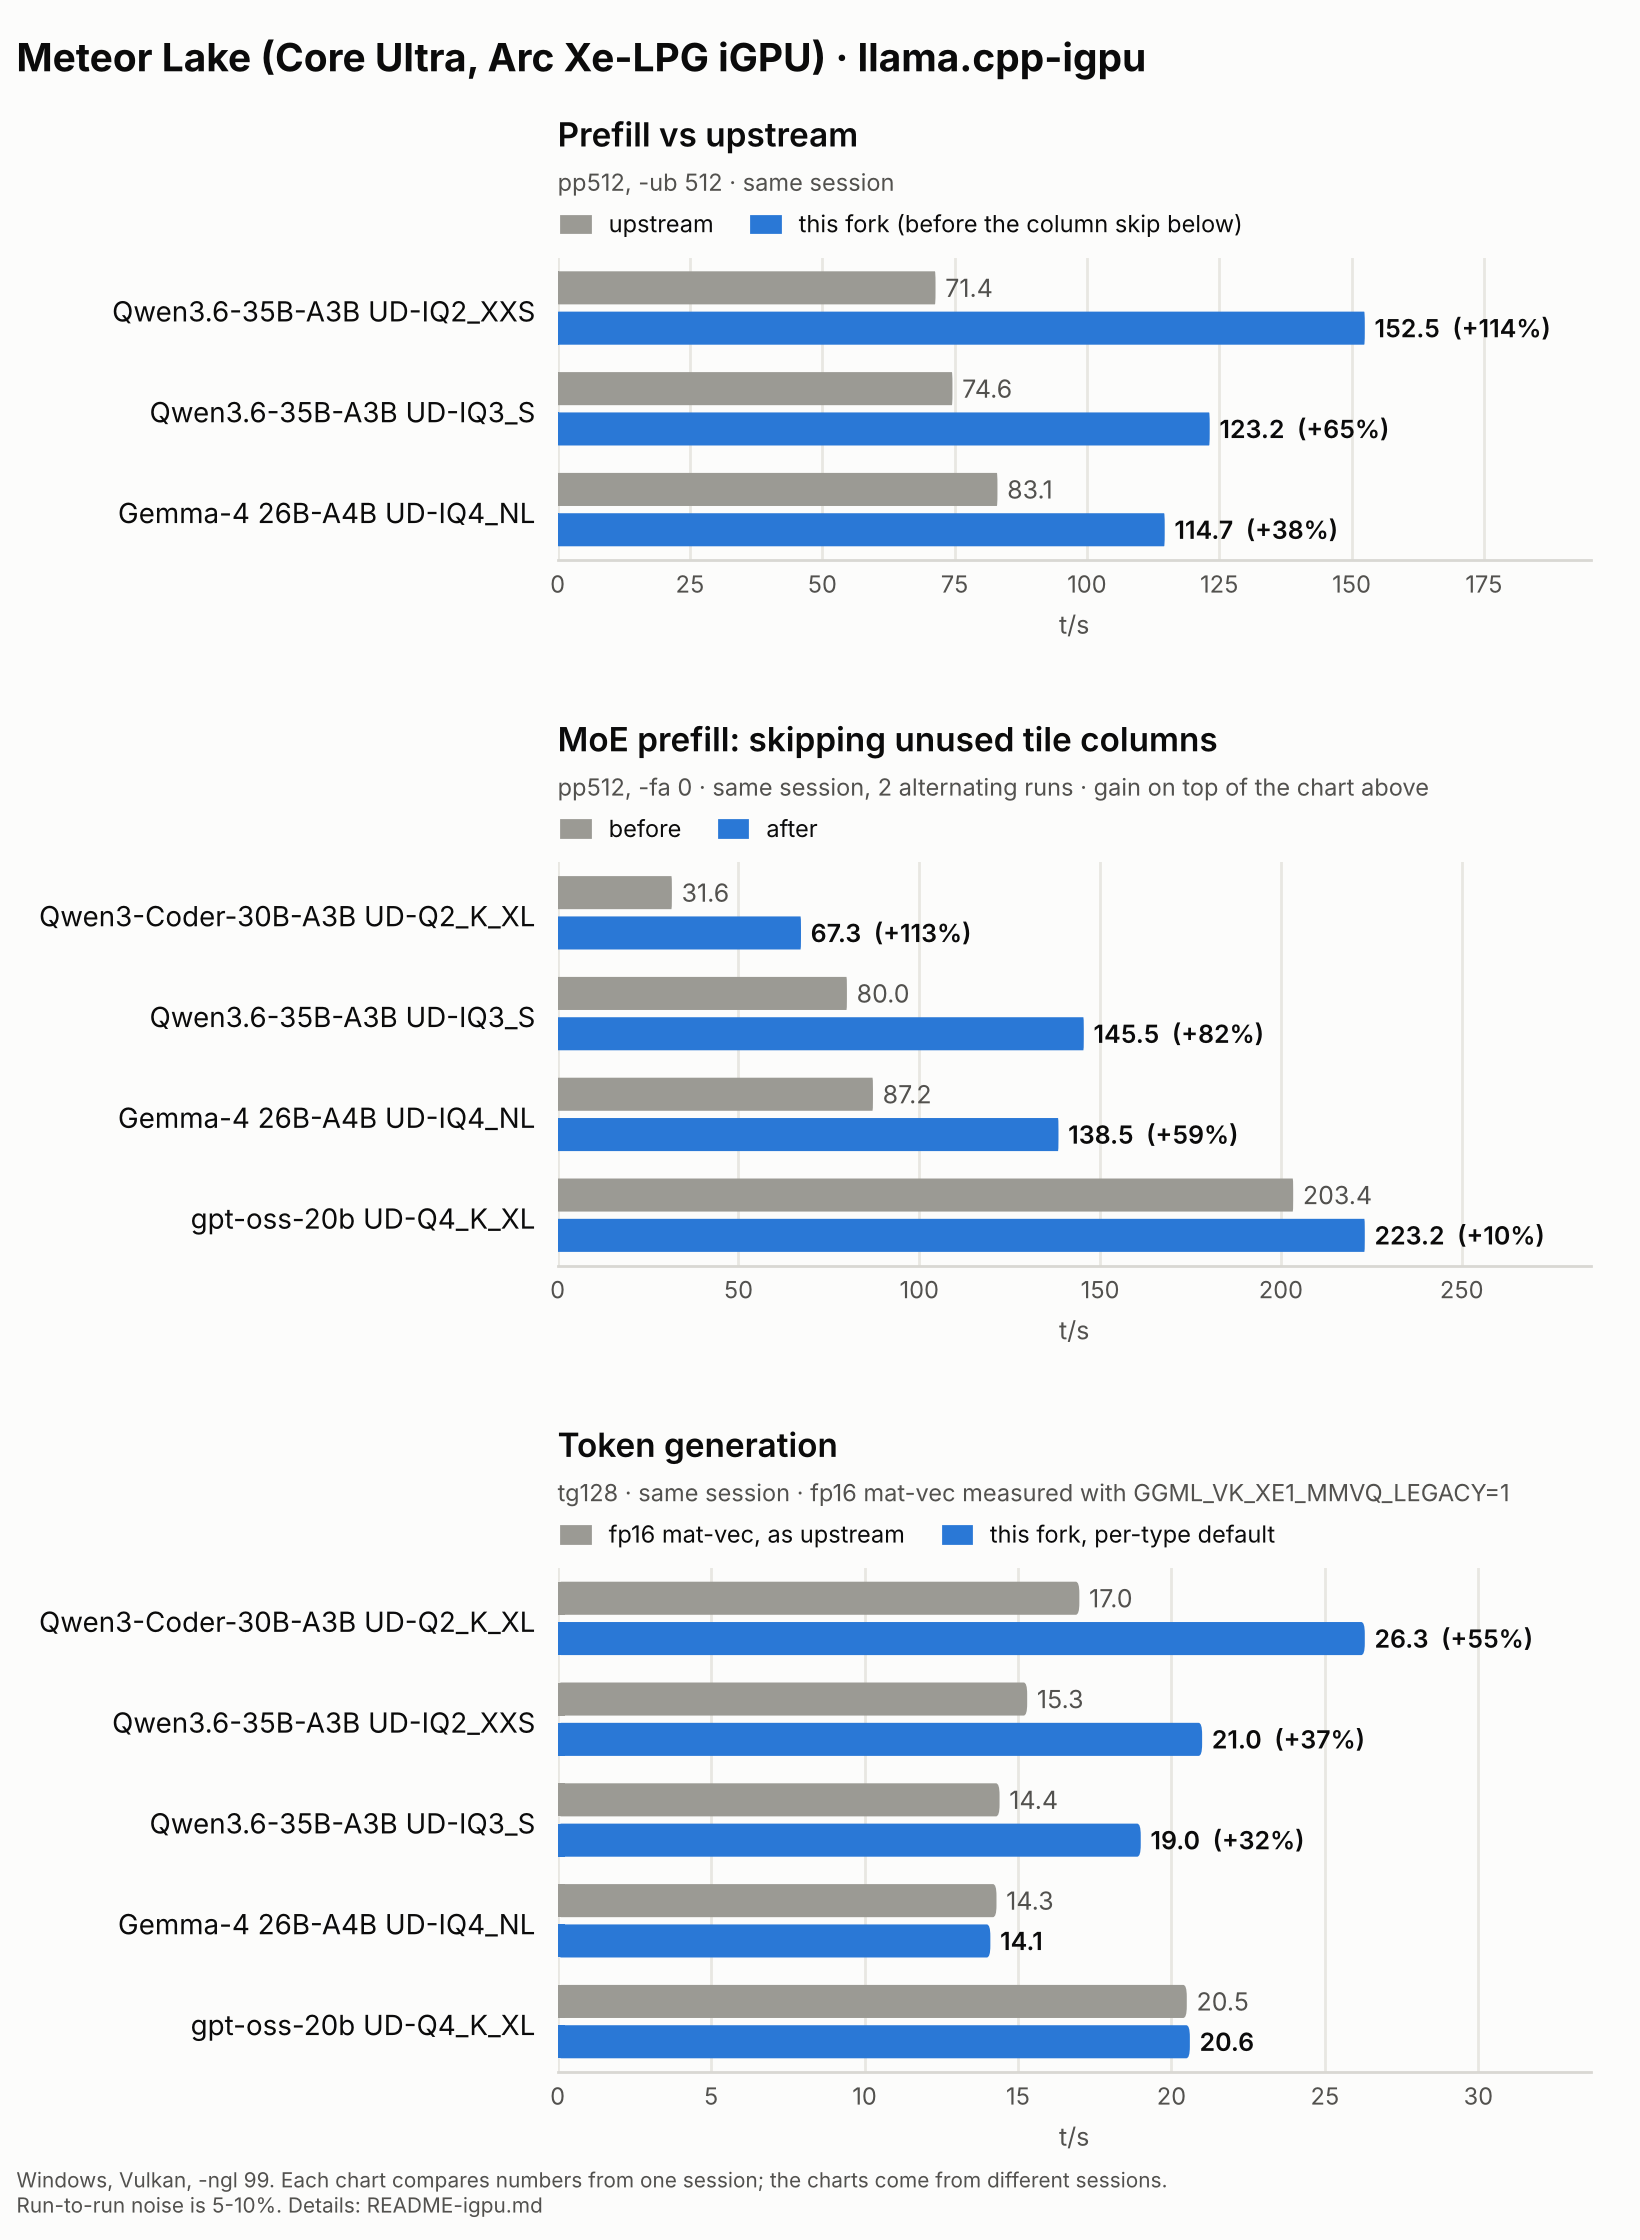
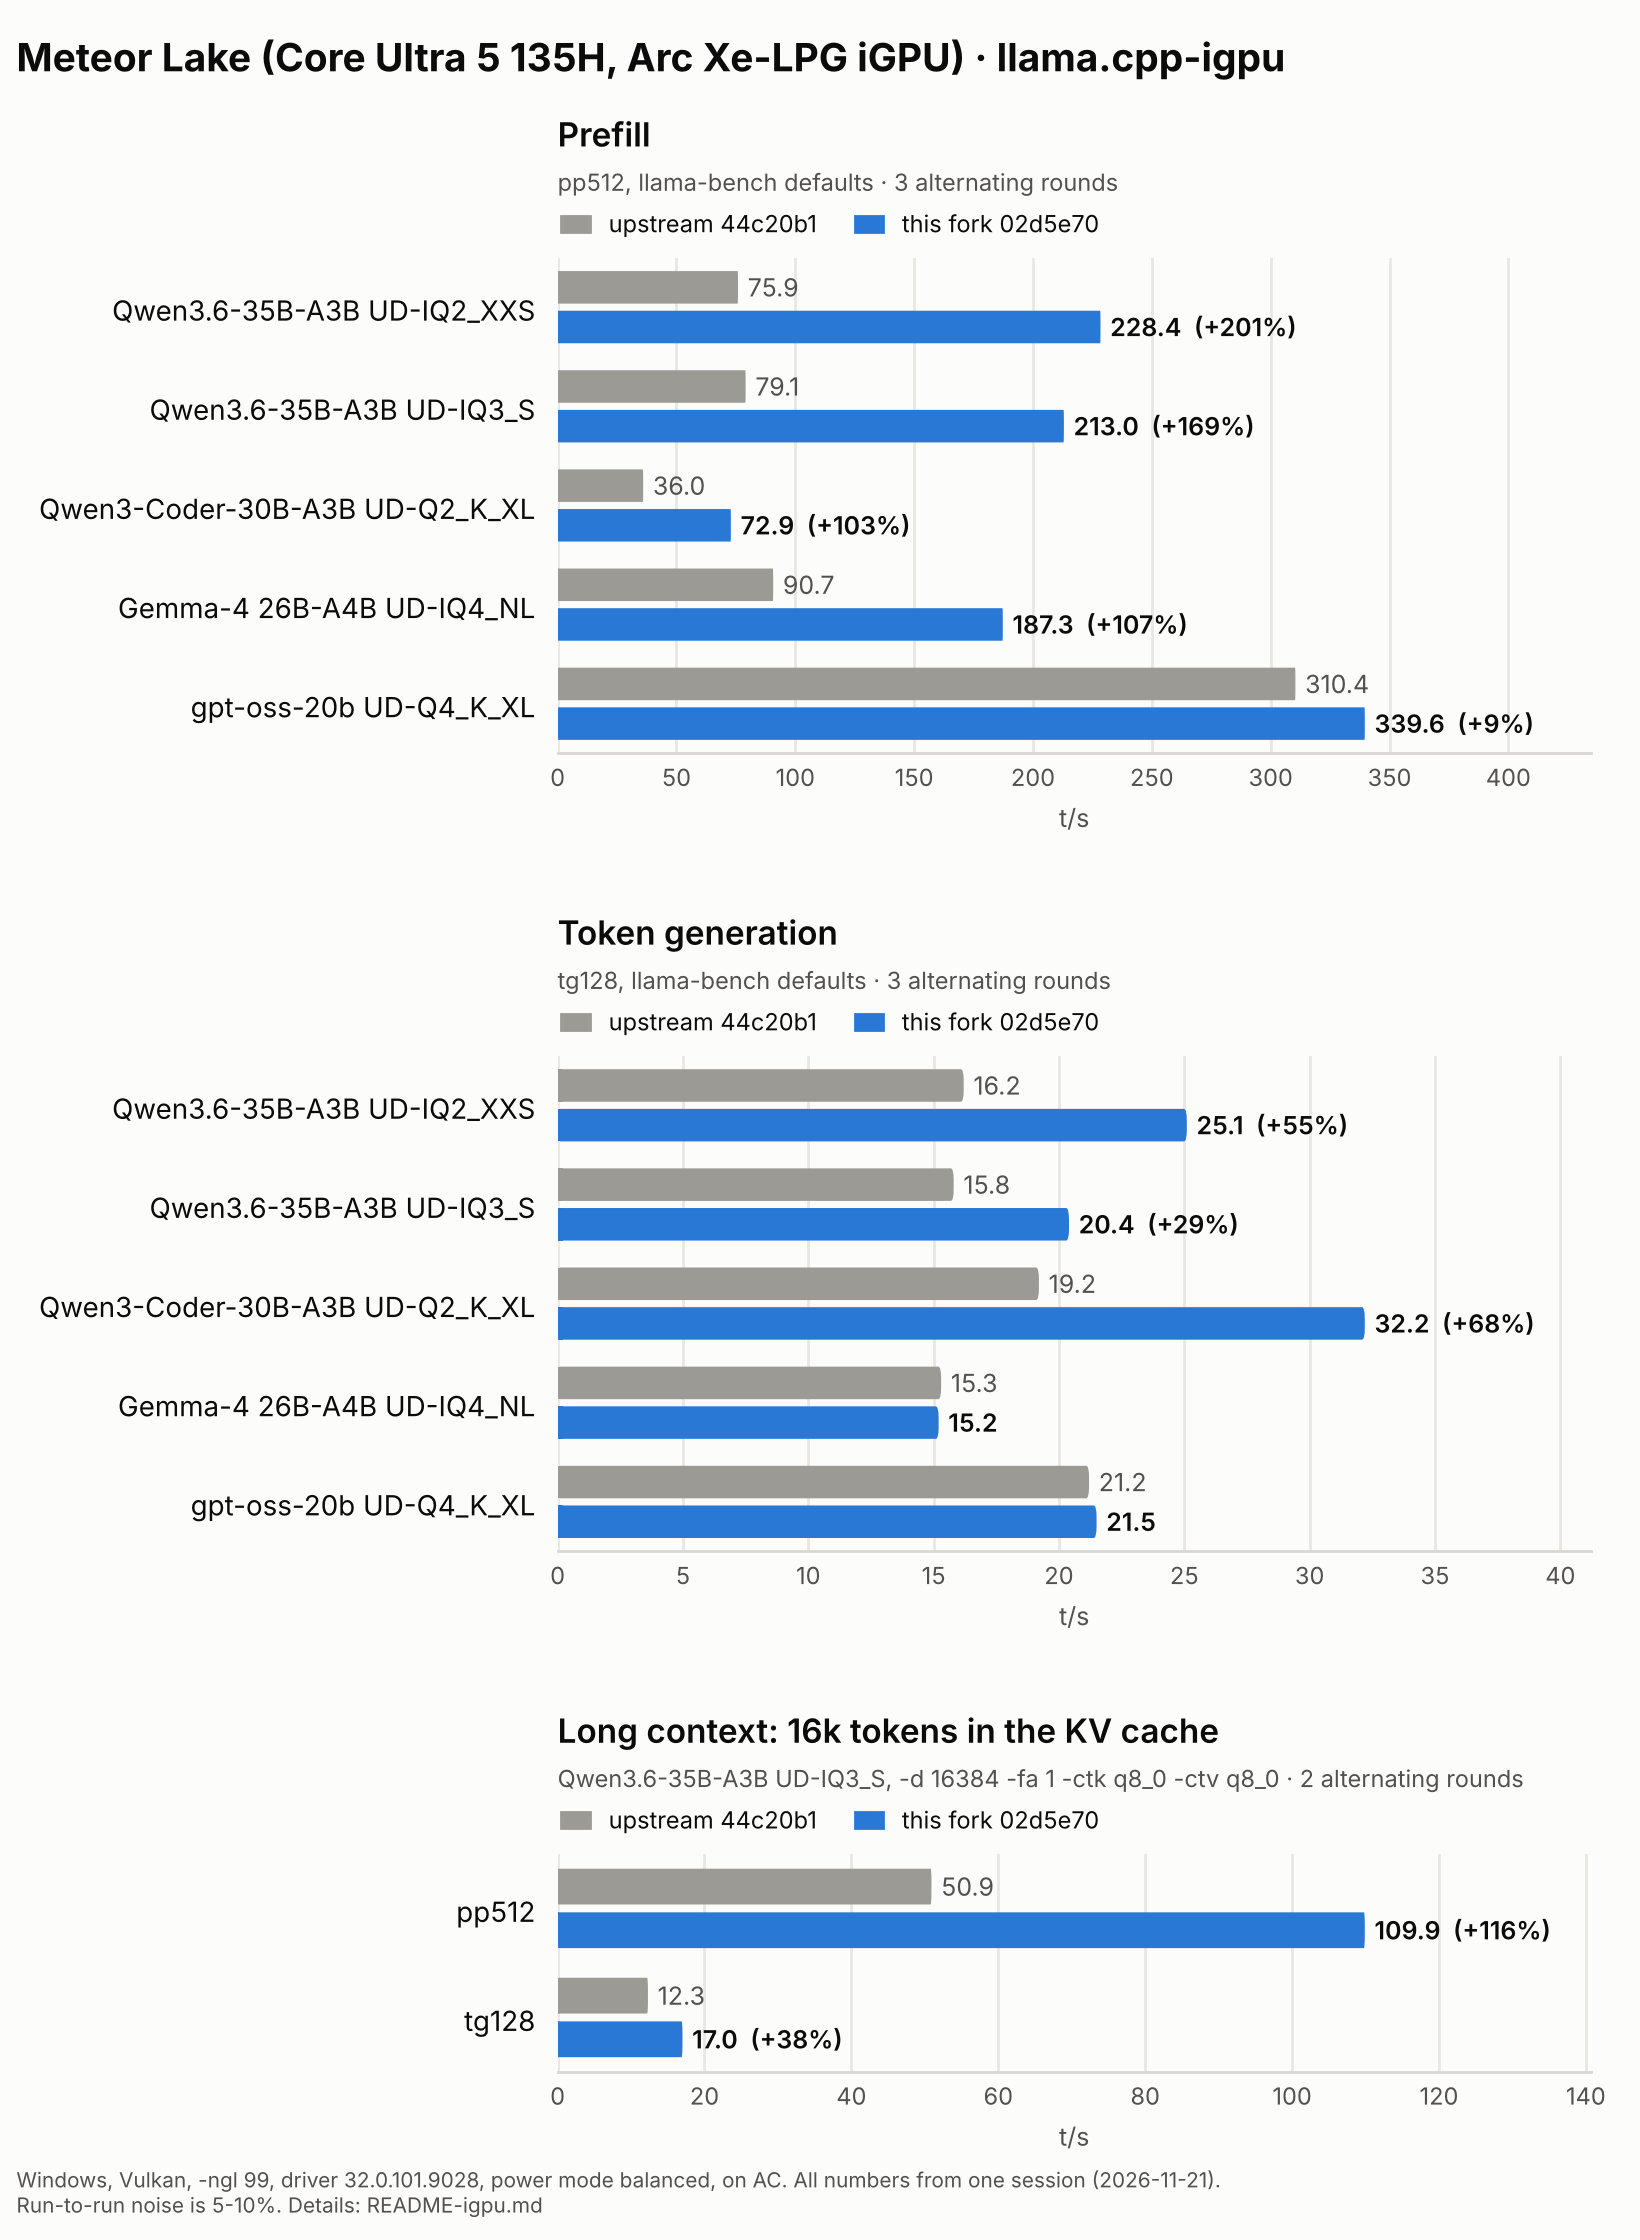
README-igpu: Meteor Lake upstream vs fork re-measured, new chart
All five models in one session (bench-compare.ps1, driver 32.0.101.9028).
The prefill jump against the older tables is not the power mode either.

Claude-Session: https://claude.ai/code/session_016hN8uJYywep5xmvUceryRL

diff --git a/docs/igpu/make_charts.py b/docs/igpu/make_charts.py
@@ -83,30 +83,32 @@ def save(fig, name, note):
 
 
 # ---------------- Meteor Lake ----------------
+# bench-compare.ps1, 2026-11-21: Core Ultra 5 135H, driver 32.0.101.9028, upstream 44c20b1 vs fork 02d5e70,
+# 3 alternating rounds at depth 0 (2 at depth 16384), means.
+MTL_MODELS = ["Qwen3.6-35B-A3B UD-IQ2_XXS", "Qwen3.6-35B-A3B UD-IQ3_S", "Qwen3-Coder-30B-A3B UD-Q2_K_XL",
+              "Gemma-4 26B-A4B UD-IQ4_NL", "gpt-oss-20b UD-Q4_K_XL"]
 fig, axs = plt.subplots(3, 1, figsize=(8.2, 11.2), facecolor=SURFACE,
-                        gridspec_kw={"height_ratios": [3, 4, 5], "hspace": 0.75})
-panel(axs[0], "Prefill vs upstream",
-      "pp512, -ub 512 · same session",
-      ["Qwen3.6-35B-A3B UD-IQ2_XXS", "Qwen3.6-35B-A3B UD-IQ3_S", "Gemma-4 26B-A4B UD-IQ4_NL"],
-      [("upstream", BASE, [71.4, 74.6, 83.1]),
-       ("this fork (before the column skip below)", FORK, [152.5, 123.2, 114.7])])
-panel(axs[1], "MoE prefill: skipping unused tile columns",
-      "pp512, -fa 0 · same session, 2 alternating runs · gain on top of the chart above",
-      ["Qwen3-Coder-30B-A3B UD-Q2_K_XL", "Qwen3.6-35B-A3B UD-IQ3_S",
-       "Gemma-4 26B-A4B UD-IQ4_NL", "gpt-oss-20b UD-Q4_K_XL"],
-      [("before", BASE, [31.6, 80.0, 87.2, 203.4]),
-       ("after", FORK, [67.3, 145.5, 138.5, 223.2])])
-panel(axs[2], "Token generation",
-      "tg128 · same session · fp16 mat-vec measured with GGML_VK_XE1_MMVQ_LEGACY=1",
-      ["Qwen3-Coder-30B-A3B UD-Q2_K_XL", "Qwen3.6-35B-A3B UD-IQ2_XXS", "Qwen3.6-35B-A3B UD-IQ3_S",
-       "Gemma-4 26B-A4B UD-IQ4_NL", "gpt-oss-20b UD-Q4_K_XL"],
-      [("fp16 mat-vec, as upstream", BASE, [17.0, 15.3, 14.4, 14.3, 20.5]),
-       ("this fork, per-type default", FORK, [26.3, 21.0, 19.0, 14.1, 20.6])])
-fig.suptitle("Meteor Lake (Core Ultra, Arc Xe-LPG iGPU) · llama.cpp-igpu", x=0.01, ha="left",
+                        gridspec_kw={"height_ratios": [5, 5, 2.2], "hspace": 0.75})
+panel(axs[0], "Prefill",
+      "pp512, llama-bench defaults · 3 alternating rounds",
+      MTL_MODELS,
+      [("upstream 44c20b1", BASE, [75.9, 79.1, 36.0, 90.7, 310.4]),
+       ("this fork 02d5e70", FORK, [228.4, 213.0, 72.9, 187.3, 339.6])])
+panel(axs[1], "Token generation",
+      "tg128, llama-bench defaults · 3 alternating rounds",
+      MTL_MODELS,
+      [("upstream 44c20b1", BASE, [16.2, 15.8, 19.2, 15.3, 21.2]),
+       ("this fork 02d5e70", FORK, [25.1, 20.4, 32.2, 15.2, 21.5])])
+panel(axs[2], "Long context: 16k tokens in the KV cache",
+      "Qwen3.6-35B-A3B UD-IQ3_S, -d 16384 -fa 1 -ctk q8_0 -ctv q8_0 · 2 alternating rounds",
+      ["pp512", "tg128"],
+      [("upstream 44c20b1", BASE, [50.9, 12.3]),
+       ("this fork 02d5e70", FORK, [109.9, 17.0])])
+fig.suptitle("Meteor Lake (Core Ultra 5 135H, Arc Xe-LPG iGPU) · llama.cpp-igpu", x=0.01, ha="left",
              fontsize=14, fontweight="bold", y=0.985)
 fig.subplots_adjust(left=0.34, right=0.97, top=0.885, bottom=0.075)
 save(fig, "igpu-meteor-lake.png",
-     "Windows, Vulkan, -ngl 99. Each chart compares numbers from one session; the charts come from different sessions.\n"
+     "Windows, Vulkan, -ngl 99, driver 32.0.101.9028, power mode balanced, on AC. All numbers from one session (2026-11-21).\n"
      "Run-to-run noise is 5-10%. Details: README-igpu.md")
 
 # ---------------- Lunar Lake ----------------

diff --git a/README-igpu.md b/README-igpu.md
@@ -39,27 +39,25 @@ Upstream already has integer dot MMQ for Q2_K..Q6_K, Q4_0/Q4_1/Q5_x/Q8_0, IQ3_S,
 
 The charts are drawn from the tables below by `docs/igpu/make_charts.py`; each chart compares numbers from one session.
 
-### Meteor Lake: upstream vs this fork, short and long context
+### Meteor Lake: upstream vs this fork
 
-Qwen3.6-35B-A3B UD-IQ3_S, `llama-bench` defaults (`-ub 512`, flash attention auto = on), driver 32.0.101.9028,
-3 alternating rounds of upstream 1fdda89 and this fork 02d5e70, mean t/s:
+`bench-compare.ps1`, 2026-11-21: Core Ultra 5 135H, driver 32.0.101.9028, power mode balanced, on AC. Upstream
+44c20b1 vs this fork 02d5e70, `llama-bench` defaults, 3 alternating rounds (2 at depth 16384), mean t/s:
 
-| | upstream | this fork |
-|---|---|---|
-| pp512 | 79.6 | 212.6 |
-| tg128 | 16.0 | 21.2 |
-| pp512 at depth 16384 (f16 cache) | 47.9 | 80.3 |
-| tg128 at depth 16384 (f16 cache) | 12.1 | 17.3 |
-| pp512, `-ctk q8_0 -ctv q8_0` | 80.6 | 212.5 |
-| tg128, `-ctk q8_0 -ctv q8_0` | 15.9 | 21.1 |
-| pp512 at depth 16384, q8_0 cache | 50.5 | 113.3 |
-| tg128 at depth 16384, q8_0 cache | 12.3 | 17.3 |
+| model | pp512 upstream | pp512 fork | tg128 upstream | tg128 fork |
+|---|---|---|---|---|
+| Qwen3.6-35B-A3B UD-IQ2_XXS | 75.9 | 228.4 (3.01x) | 16.2 | 25.1 (1.55x) |
+| Qwen3.6-35B-A3B UD-IQ3_S | 79.1 | 213.0 (2.69x) | 15.8 | 20.4 (1.29x) |
+| Qwen3-Coder-30B-A3B UD-Q2_K_XL | 36.0 | 72.9 (2.03x) | 19.2 | 32.2 (1.68x) |
+| Gemma-4 26B-A4B UD-IQ4_NL | 90.7 | 187.3 (2.07x) | 15.3 | 15.2 (0.99x) |
+| gpt-oss-20b UD-Q4_K_XL | 310.4 | 339.6 (1.09x) | 21.2 | 21.5 (1.01x) |
+| Qwen3.6 IQ3_S, depth 16384, `-fa 1 -ctk q8_0 -ctv q8_0` | 50.9 | 109.9 (2.16x) | 12.3 | 17.0 (1.38x) |
 
-The fork's prefill numbers are higher than in the older tables below (pp512 about 210 now, 123-145 then; pp512 at
-depth 16384 with a q8_0 cache: 69 then, 113 now). It is not the rebase: the release before it (4ea9498) also gives
-pp512 205-215 now. Between the measurements the driver changed (32.0.101.8991 -> 9028) and the power mode was set to
-best performance; which of the two it is was not separated. Upstream changed much less (pp512 74.6 then, 79.6 now).
-The older tables were not re-measured.
+The fork's prefill numbers are higher than in the older tables below (Qwen3.6 UD-IQ3_S pp512 about 213 now, 123-145
+then; at depth 16384 with a q8_0 cache 69 then, 110 now). It is not the rebase (the release before it, 4ea9498, also
+gives pp512 205-215 now) and not the power mode (this run was in balanced mode). The driver changed in between
+(32.0.101.8991 -> 9028). Upstream changed much less (pp512 74.6 then, 79.1 now). The older tables were not
+re-measured.
 
 ### Prefill, Meteor Lake
 
@@ -298,9 +296,9 @@ measuring a baseline.
   per expert and better use of each matmul tile. Measured with Qwen3.6-35B-A3B UD-IQ3_S, pp2048 (5095e8b):
   Lunar Lake `-ub 512` 631, `-ub 1024` 711, `-ub 2048` 671 t/s; Meteor Lake 142, 155, 160 t/s.
   So `-b 2048 -ub 1024` on Lunar Lake, `-b 2048 -ub 2048` on Meteor Lake (Gemma-4 26B-A4B: `-ub 2048` measured earlier).
-- Meteor Lake, long prompts: in the latest measurements (driver 32.0.101.9028, best performance power mode), flash
-  attention with a q8_0 KV cache was the fastest setting measured (Qwen3.6 pp512 at 16k context: 113 t/s, f16 cache
-  80 t/s; token generation the same, 17.3 t/s). Earlier (driver 8991), `-fa off` with an f16 cache was faster (83.8
+- Meteor Lake, long prompts: in the latest measurements (driver 32.0.101.9028), flash
+  attention with a q8_0 KV cache was the fastest setting measured (Qwen3.6 pp512 at 16k context: 110-113 t/s, f16 cache
+  80 t/s; token generation the same, about 17 t/s). Earlier (driver 8991), `-fa off` with an f16 cache was faster (83.8
   vs 68.8 t/s); `-fa off` was not re-measured since. Without flash attention the KQ matrix is kept in the compute buffer (16 heads x ubatch x context x 4 bytes,
   about 0.55 GB at `-ub 512` and 16k, 2.2 GB at `-ub 2048`) and the V cache cannot be quantized.
 - KV cache: q8_0 costs little speed now. Lunar Lake, Qwen3.6 at 16k context: prefill f16 472 / q8_0 445 t/s,
